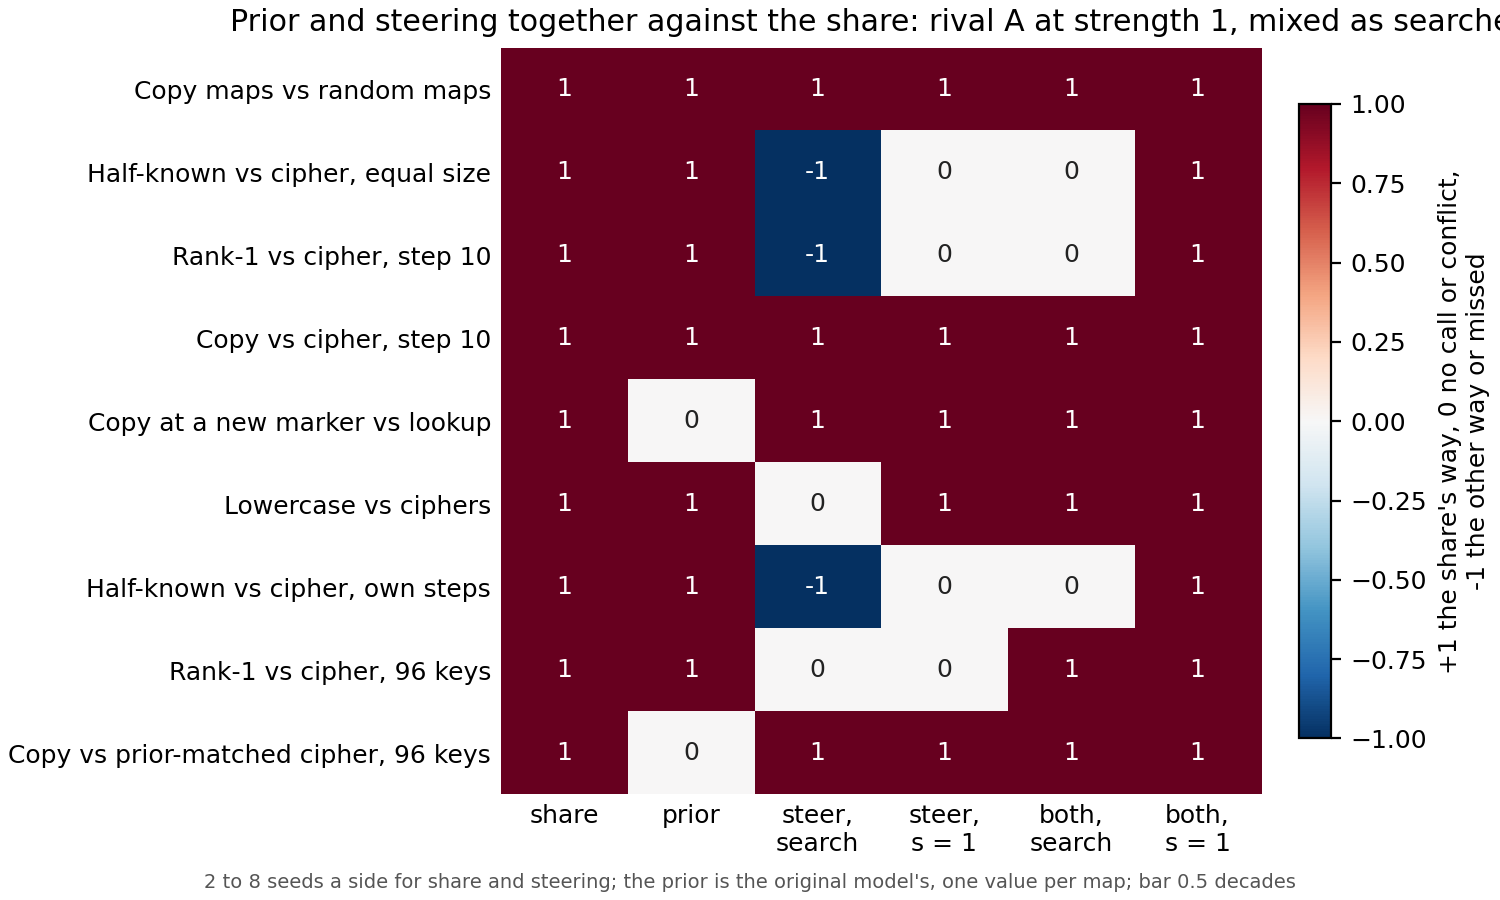
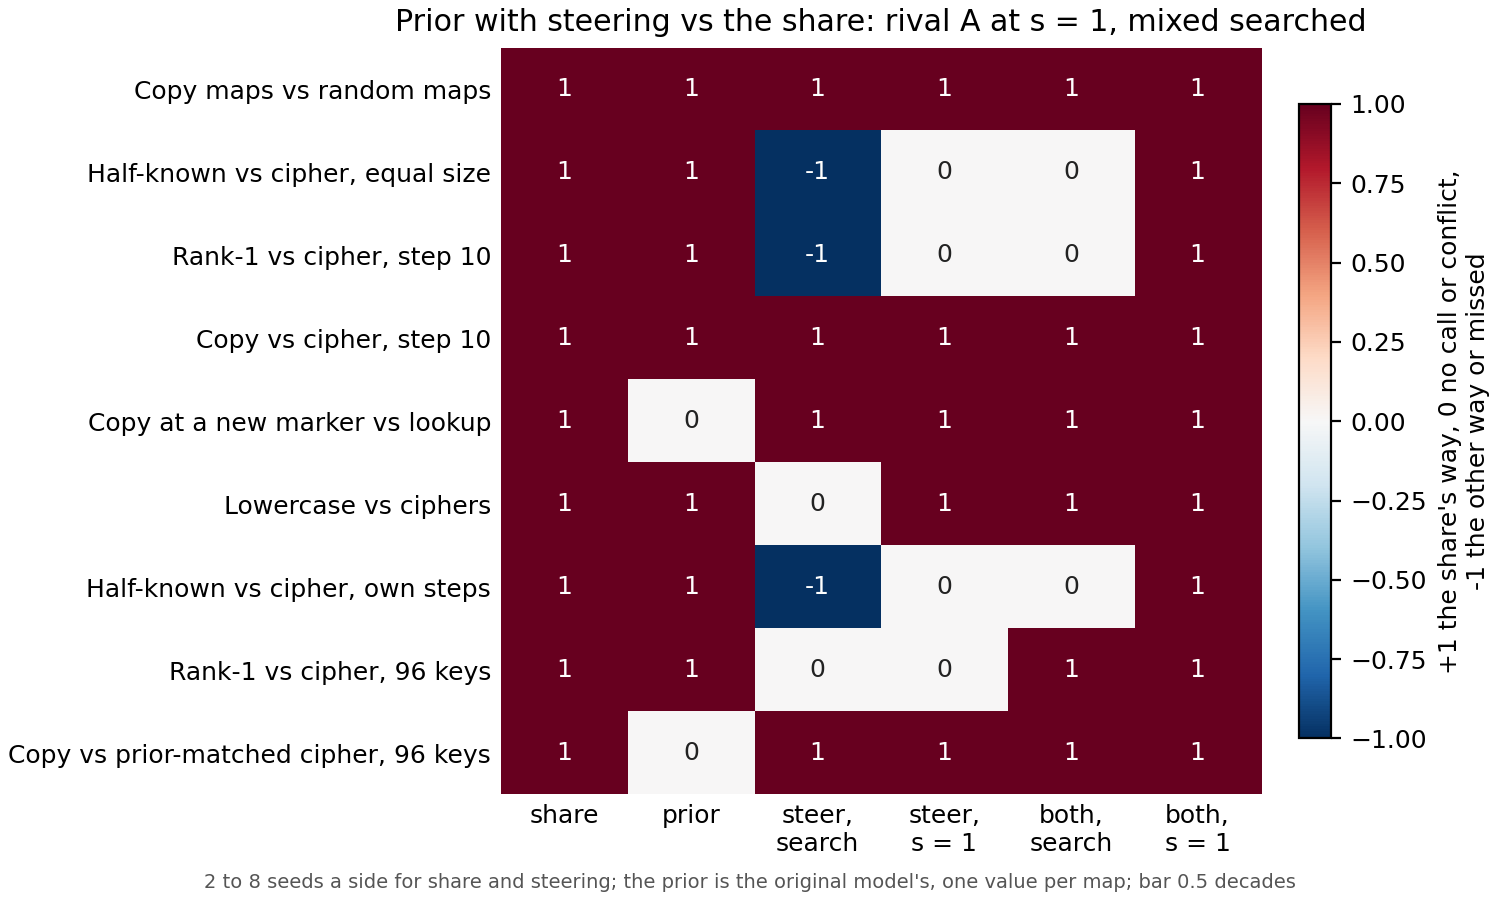
E149 write-up: prior plus strength-1 steering track the share direction on all nine built pairs; TRIED row, PENDING line, figure title shortened

Changed region(s): [[0.1533, 0.0, 1.0, 0.0622]]

diff --git a/experiments/prior_steering/plot.py b/experiments/prior_steering/plot.py
@@ -48,7 +48,7 @@ def main(results: Path = HERE / "results", figures: Path = HERE / "figures") -> 
     score = json.loads((results / "stage1.json").read_text())["score"]
     o = score["outcome"]
     fig, ax = FG.figure(FG.FULL_WIDTH)
-    data = panel(ax, score, f"Prior and steering together against the share: {o['strength1']} at strength 1, {o['filed']} as searched")
+    data = panel(ax, score, f"Prior with steering vs the share: {o['strength1']} at s = 1, {o['filed']} searched")
     n = "2 to 8 seeds a side for share and steering; the prior is the original model's, one value per map; bar 0.5 decades"
     FG.save(fig, figures / "votes.png", n=n, data=data)
 

diff --git a/reports/analyses/2026-11-10_analysis_e149-prior-steering.md b/reports/analyses/2026-11-10_analysis_e149-prior-steering.md
@@ -1,0 +1,135 @@
+# Do the original model's prior and steering, together, call the built pairs the way the share does?
+
+*E149, cell P2.15, compare-lead, 2026-11-10. Provisional: one run, no independent check. Sides are named as each pair was
+built; no verdict on reuse, since the definition is under revision. Plan `reports/plans/2026-11-10_plan_prior-steering.md`;
+card `reports/plans/2026-11-10_plan_p2-15-card.md`; rule `experiments/prior_steering/results/predictions.json` and
+`experiments/prior_steering/rules.py`.*
+
+We asked whether two cheap readings, the original model's prior for each task's answer and steering with the fine-tune's
+own mean change, between them call every built pair the way the re-gating share does. With steering added at the
+fine-tune's own size, they do, on all nine built pairs, while each one alone misses at least one pair. For the paper's
+comparison this means that, on which side reads higher, the built pairs no longer show the share seeing something both
+cheap readings miss; whether the share adds anything must now be argued from gap sizes or new pairs.
+
+**The answer.** On direction across the nine built pairs, the prior and steering at its natural size together reproduce the
+share's call on every pair, and neither does alone. Where the prior is matched, steering carries the pair; where steering
+fails, the prior does. With steering's searched strength, three pairs instead have the two readings pointing opposite ways.
+This reads direction only, not how far apart the sides are, and the share puts the side built to reuse higher on all nine.
+
+## What we were trying to test
+
+The share is the part of a fine-tune's gain that comes from changing which subcomponents the decomposition switches on.
+On each of the nine built pairs (two families of fine-tunes of the 67M model, one built to reuse what the model already
+does, one built to be new) the share reads the reuse side higher, beyond the spread between seeds. Earlier runs compared
+cheaper readings with it one at a time, and each failed somewhere. The question left open on the method comparison card
+was whether two of them, together, would track it.
+
+The two readings:
+
+- **The prior**: the original model's log10 probability of each task's trained answer, one value per map. It calls a pair
+  when the sides differ by at least half a decade (0.5), a bar set above the spread between maps built the same way.
+- **Steering**: each fine-tune's mean change of activation at the answer position is added to the original model, and the
+  rise in the answer's log-odds is read as a share of the fine-tune's own gain. Read in two forms: as filed, with the
+  multiple of the vector chosen by a search up to eight times, and at strength 1, the change added as it is. Each pair is
+  called by the method comparison's rule on its seeds, in the vector kind its filed cell uses.
+
+Each reading votes per pair: the share's way, no call, or the other way. A pair is **tracked** when one votes the share's
+way and neither votes against; a **conflict** when they point opposite ways; **missed** when neither votes the share's way.
+No weight is fitted, so leaving a pair out changes only the pair set. Two pairs test the combination hardest: copy vs lookup
+and copy vs the prior-matched cipher, where the prior gaps are 0.12 and 0.20 decades, under the bar, so steering alone
+decides them.
+
+A zero update steered nothing on either code path, and every saved reading this run recomputed (the method comparison's
+selection rises, the earlier strength-1 shares, the copy-vs-lookup filed share) reproduced exactly.
+
+## What we expected, and why
+
+- As filed, a mix: the three pairs where steering's search reverses the sign conflict with the prior, every other pair is
+  tracked. This was arithmetic on cells already seen.
+- At strength 1, every pair tracked. The reversals were known to vanish at strength 1, leaving the prior to carry those
+  pairs; on the selection rows, copy at a new marker rose more per unit added than lookup did.
+- At strength 1, steering separates both matched-prior pairs the share's way. This was the prediction that could fail.
+- At strength 1, steering separates none of the three pairs where it had reversed.
+
+## What we observed
+
+![Each reading's call per built pair](../../experiments/prior_steering/figures/votes.png)
+
+**Reading it.** The last column is the share's way on every row: prior and strength-1 steering together track all nine
+pairs. The fifth column shows the searched form leaving three rows at conflict, where steering's search reverses the sign
+and the prior does not. The prior column alone has two rows with no call (the matched pairs), and each steering column has
+rows with no call, so neither reading alone tracks every pair.
+
+**The matched-prior pairs.** At strength 1 steering separates copy from lookup by 0.31 of the gain and copy from the
+prior-matched cipher by 0.44. Under the search the gaps were 0.41 and 0.59: the search widens them but does not make them.
+
+**The reversed pairs.** At strength 1 neither half-known pair nor rank-1 vs cipher at step 10 is separated by steering;
+the prior, above the bar on all three, carries them. Lowercase vs ciphers, no call under the search, separates the share's
+way at strength 1 (0.18). Rank-1 vs cipher at 96 keys is not separated by steering in either form (0.05 at strength 1) and
+is tracked by the prior.
+
+Leaving any one pair out gives the same outcome in both forms.
+
+### Full table (gaps: steering as a share of the gain, reuse minus new; prior in decades)
+
+| pair | prior gap | steering searched | steering strength 1 | together, searched | together, strength 1 |
+|---|---|---|---|---|---|
+| copy maps vs random maps | 1.48 | 0.47 | 0.45 | tracked | tracked |
+| half-known vs cipher, equal size | 3.20 | -0.24 | 0.04 (no call) | conflict | tracked |
+| rank-1 vs cipher, step 10 | 3.72 | -0.27 | -0.03 (no call) | conflict | tracked |
+| copy vs cipher, step 10 | 2.12 | 0.24 | 0.27 | tracked | tracked |
+| copy at a new marker vs lookup | 0.12 (matched) | 0.41 | 0.31 | tracked | tracked |
+| lowercase vs ciphers | 1.63 | -0.05 (no call) | 0.18 | tracked | tracked |
+| half-known vs cipher, own steps | 3.20 | -0.12 | -0.05 (no call) | conflict | tracked |
+| rank-1 vs cipher, 96 keys | 3.96 | 0.03 (no call) | 0.05 (no call) | tracked | tracked |
+| copy vs prior-matched cipher, 96 keys | 0.20 (matched) | 0.59 | 0.44 | tracked | tracked |
+
+Every value with its seeds is in `experiments/prior_steering/results/stage1.json` under `score.pairs`.
+
+## Predictions, held or missed
+
+| id | claim | read | verdict |
+|---|---|---|---|
+| P1 | searched: mixed, conflicts on the two half-known pairs and rank-1 vs cipher at step 10 | exactly those three, none missed | **held** (seen before filing) |
+| P2 | strength 1: every pair tracked | all nine tracked | **held** |
+| P3 | strength 1: steering separates both matched-prior pairs the share's way | both separate | **held** |
+| P4 | strength 1: steering separates none of the three reversed pairs | none separates | **held** |
+
+**Seen before filing.** Every cell of the method table and the 96-key refits' filed steering calls, so the first prediction
+restates known cells. The earlier strength-1 reads on two reversed pairs made the fourth nearly certain. The selection-row
+rises at strength 1 pointed toward the third on copy vs lookup. Not seen: any read-row value at strength 1 on the six pairs
+not read before, including both matched-prior pairs.
+
+## What this means for the method comparison
+
+The method comparison card says: "every rival fails somewhere, but no single pair rules out all of them at once. The prior
+plus steering together could in principle track the share. We have not tested that." It is now tested for these two: on the
+nine built pairs, the prior and steering at strength 1 together give the share's direction on every pair, so on direction
+the built pairs cannot show that the share adds something beyond them. With the searched strength the pair of readings
+conflicts on three pairs, so the share's edge over steering in that form rests on how the strength is chosen, as the
+premise checker suspected. What remains open is whether the share tracks how far apart the sides are where the two cheap
+readings do not, and whether a new pair can be built with the prior matched and steering at strength 1 flat.
+
+## How compelling is the evidence
+
+One run, all controls passed. Two to eight seeds a side for steering; the prior has no seed spread, and its bar sits above
+the measured spread between maps. The test is weak in one way that matters: the share calls all nine pairs the same way,
+so "tracked" asks only whether two coarse readings between them cover each pair, not whether they follow the share. The
+combination rule is generous: either reading may carry a pair. Steering per key is handed the answer on both sides. All
+nine pairs are built on the 67M model; four involve a cipher.
+
+## Surprises
+
+None against the filed predictions. Lowercase vs ciphers turning from no call to the share's way at strength 1 was
+expected from the selection rows, not filed.
+
+## Not run
+
+- A comparison of gap sizes: whether the share's gaps follow the prior's or steering's across pairs.
+- Effective rank, neurons or the untrained readings in the combination; effective rank on the 96-key refits.
+- Any other combination rule, weight or strength; strengths matched by vector size.
+- The twin pairs; any Qwen pair; any new pair built with the prior matched.
+- Any edit to the method table or `plot_final.py`; any verdict on reuse.
+
+Provenance: job 58001, debug L40, $0; results `experiments/prior_steering/results/stage0.json`, `stage1.json` (commit
+f4f5b4b6); figure `experiments/prior_steering/figures/votes.png` from `experiments/prior_steering/plot.py`.

diff --git a/experiments/TRIED.md b/experiments/TRIED.md
@@ -259,3 +259,4 @@ Codes E1–E13 are the ones the research log ("Update Decomposition", see `READM
 | E145 (prior_lowercase) | Log card: folds into E133's baselines card (one code per question). **Ran (job 57937, debug L40, $0; both controls passed: E133's prior for e58_24_rank1 re-read to 0 relative, the rebuilt E53 windows gave E53's saved W0 log-odds within 0.003 nats).** Cell P2.13. E133's prior (geometric-mean P of the trained next token under the original model) on E53's 500 scored windows per task, rebuilt by E53's `Run.scored`; one value per task (seeds share the windows), spread given over windows. log10 prior lowercase -3.00, cipher -4.42, broad cipher -4.84; gap lowercase minus the ciphers' mean 1.63, 95% interval over windows 1.46 to 1.80: filed reading reuse_side_higher, every value inside its filed band. Fills the method table's last empty prior cell (`method_table/plot_final.py` reader `e145_prior`). Report `reports/analyses/2026-11-10_analysis_e145-prior-lowercase.md`, plan `reports/plans/2026-11-10_plan_prior-lowercase.md`, figure `experiments/prior_lowercase/figures/prior.png` | Labels as built; no verdict on reuse. On this pair the prior alone points the same way as the re-gating share |
 | E146 (steering_reversal) | Log card: folds into E133's baselines card (one code per question). **Ran (job 57949 after a stage-0 code fix, 4a3c2ac0; job 57939 stopped on it before any file; debug L40, $0; controls passed: zero update read 0, both reference states reproduced E143 exactly, every state's filed share matched E143).** Cell P2.14. On E143's saved states and read rows, one setting changed at a time on the pairs where steering read the new side higher: strength fixed at 1, layer fixed at 2 or 3, the norm-matched random reading subtracted, the pair's mean gain as denominator. Card scored half-known vs cipher at equal size (per key) and rank-1 vs cipher at step 10 (pooled); own step reported only (2 seeds, refused at n=2). Filed outcome rival A: only strength 1 is named (gaps -0.24 to 0.04 and -0.27 to -0.03, both inside the within-side range). The reuse sides stop gaining at strength 2, the ciphers keep gaining to 4-8, and the filed search picks those. P1, P3, P4 held; P2 missed narrowly (layer 3 per key: gap -0.21 inside a range of 0.22). Report `reports/analyses/2026-11-10_analysis_e146-steering-reversal.md`, plan `reports/plans/2026-11-10_plan_steering-reversal.md`, figure `experiments/steering_reversal/figures/reversal.png` | Labels as built; no verdict on reuse. Steering's reversed cells come from its strength search; strength 1 on the agreeing pairs not run |
 | E147 (refit_96key) | Log card: folds into E133's baselines card. **Ran (job 57961, debug L40, about 13 min, $0; job 57955 failed only on a missing results/large link).** Cell P2.12. E58's eight 96-key maps refit with `keydep.finetune` at seeds 0-2, step 30, kept in bf16 (`results/large/dW_<map>_s<seed>.pt`). Controls passed: every reader reproduced its saved reading of c3/rank1_s0 exactly, holes_fill's stage 0 passed, and all 24 refit shares fell within their map's seed range of E58's (largest difference 0.0006); the 7 earlier kept updates equal their refits. Read with E136 (share, untrained SVD), E98 (r_n, r_half) and E143 (TopK, fair steering), E143's rule. All filed: the share separates rank-1, copy vs prior-matched cipher and half-known vs shuffle, not the class map vs twin (gap -0.03); untrained, both neuron forms and steering read rival B, TopK inert. Steering separates only the copy pair (0.59); untrained and r_n separate that pair the other way. E133's final table now takes these four rows' share, untrained, neuron and steering cells from E147. Report `reports/analyses/2026-11-10_analysis_e147-refit-96key.md`, plan `reports/plans/2026-11-10_plan_e147-refit-96key.md` | Labels as built; no verdict on reuse. Effective rank on the refit updates not run |
+| E149 (prior_steering) | Log card: folds into E133's baselines card. **Ran (job 58001, debug L40, $0; controls passed: a zero update steered 0 on both paths, every recomputed saved reading reproduced).** Cell P2.15. Steering at strength 1 (each fine-tune's mean change added as it is, layer by the filed pick) read on all 68 saved updates of the 9 built pairs, including E147's 96-key refits, then combined with the original model's prior (bar 0.5 decades) by a fixed rule with no fitted weight: a pair is tracked when either reading calls the share's direction and neither calls against it. At strength 1 all nine are tracked (rival A); with the searched strength three are conflicts (both half-known pairs, rank-1 vs cipher at step 10), "mixed"; each reading alone misses a pair. On the two matched-prior pairs steering at strength 1 separates copy from lookup (0.31) and copy from the prior-matched cipher (0.44). Leave-one-pair-out unchanged. All four predictions held. Report `reports/analyses/2026-11-10_analysis_e149-prior-steering.md`, plan `reports/plans/2026-11-10_plan_prior-steering.md` | Labels as built; no verdict on reuse. Direction only: the share puts the reuse side higher on all nine, so this does not test gap sizes; a gap-size comparison and effective rank on the 96-key refits not run |

diff --git a/docs/research_log/PENDING.md b/docs/research_log/PENDING.md
@@ -10,3 +10,4 @@ A line starting `HOLD ` (not `- `) stays in `PENDING.md` through a flush: use it
 - 2026-11-10 · reports/analyses/2026-11-10_analysis_e145-prior-lowercase.md · E133 card (baselines comparison), its figure · the E133 card gains the lowercase-against-ciphers prior cell (E145): the original model rates lowercase's answer 1.63 decades above the ciphers' (interval 1.46 to 1.80 over windows), one value per task; final.png redrawn
 - 2026-11-10 · reports/analyses/2026-11-10_analysis_e146-steering-reversal.md · E133 card (baselines comparison) · E133 card: why steering reverses (E146): at strength 1, the fine-tune's mean change added as it is, the reversal is gone on both scored pairs; the reuse sides stop gaining at strength 2 while the ciphers keep gaining, and the strength search picks the larger multiples. Layer, random baseline and denominator did not remove it. E133 cells unchanged
 - 2026-11-10 · reports/analyses/2026-11-10_analysis_e147-refit-96key.md · E133 card (baselines comparison), its figure · E133 card: 96-key pairs now carry neurons, untrained, steering (E147)
+- 2026-11-10 · reports/analyses/2026-11-10_analysis_e149-prior-steering.md · E133 card (baselines comparison) · E133 card: prior plus steering at strength 1 cover the share's direction on all nine built pairs (E149); rewrite the 'not tested' line
